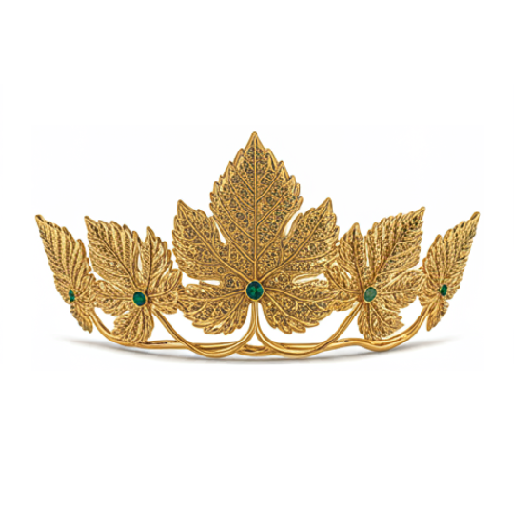
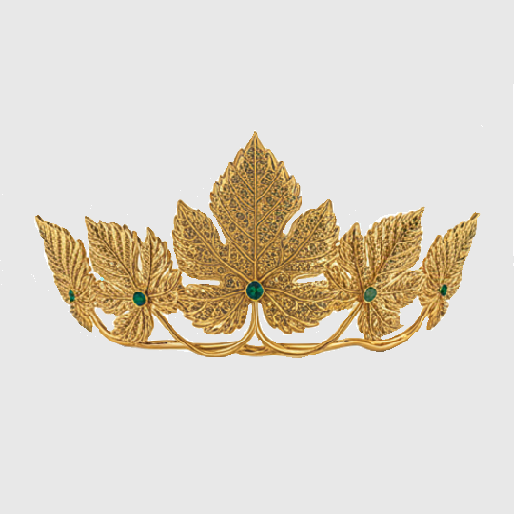
Add files via upload

diff --git a/index.html b/index.html
@@ -40,7 +40,7 @@
 
 
 
-        <!-- ALIEN UFO - START -->
+        <!-- ALIEN UFO - START 
         <div class="ufo-wrap">
           <div class="ufo-inner">
             <div id='ufo-ring'>
@@ -64,6 +64,7 @@
 
         <div id="stars">
         </div> <br><br>
+        -->
         <!-- ALIEN UFO - STOP -->
 
 
@@ -82,7 +83,7 @@
             <div class="thumbnail"><br>
               <div class="window1"></div>
               <h3 style='color: springgreen; text-shadow: .8px .8px .8px black;'>
-                GREEN ESCAPADE</h3>
+                Green Escapade</h3>
               <h4 style='color: springgreen; text-shadow: .8px .8px .8px black;'>
                 RESERVATION SYSTEM</h4>
               <video autoplay muted loop preload="auto" poster="./green-escapade-poster.png">
@@ -108,7 +109,7 @@
             <div class="thumbnail"><br>
               <div class="window2"></div>
               <h3 style='color: cyan; text-shadow: .8px .8px .8px black;'>
-                CHATBOT CONSULTANT</h3>
+                Chatbot Consultant</h3>
               <h4 style='color: cyan; text-shadow: .8px .8px .8px black;'>
                 TECHNICAL SUPPORT</h4>
               <video autoplay muted loop preload="auto" poster="./Chatbot-consultant poster.png">
@@ -132,7 +133,7 @@
             <div class="thumbnail"><br>
               <div class="window3"></div>
               <h3 style='color: magenta; text-shadow: .8px .8px .8px black;'>
-                NOBILIO DELICATE</h3>
+                Nobilio Delicate</h3>
               <h4 style='color: magenta; text-shadow: .8px .8px .8px black;'>
                 DIGITAL MARKETING</h4>
               <video autoplay muted loop preload="auto" poster="./nobilio-poster.png">
